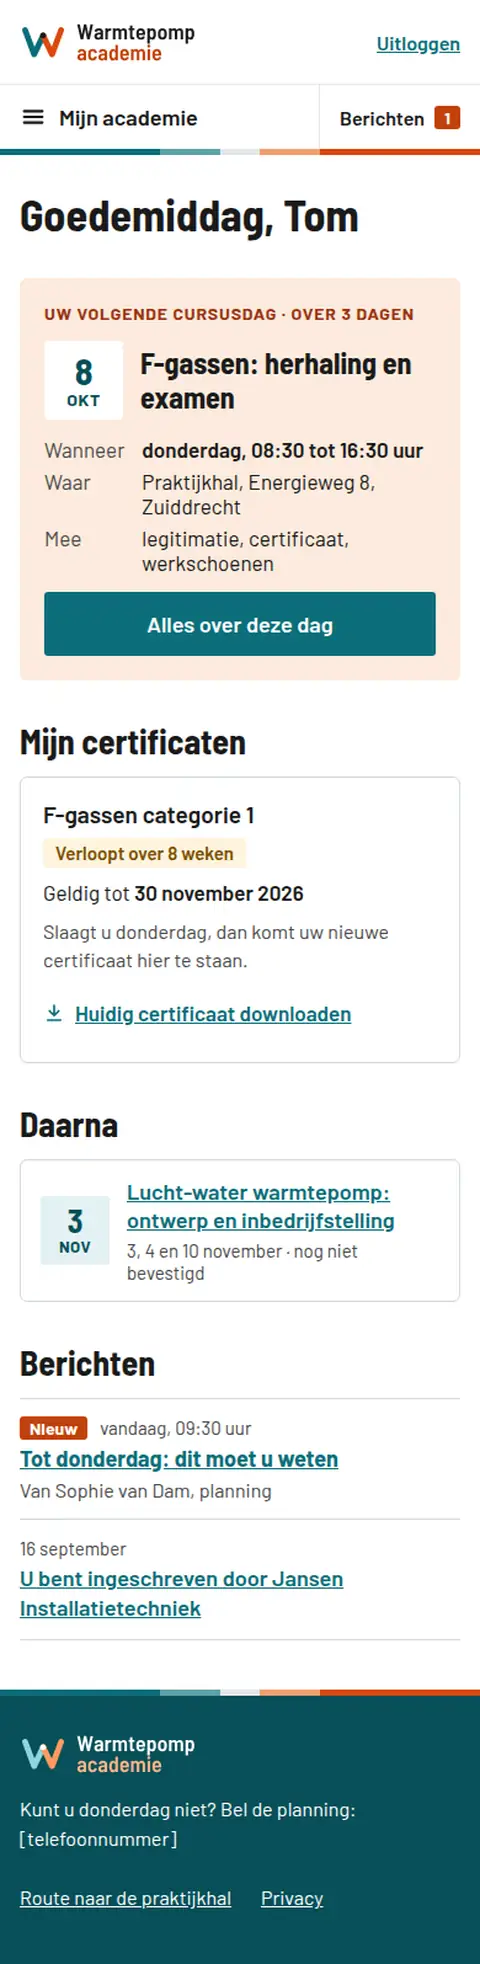
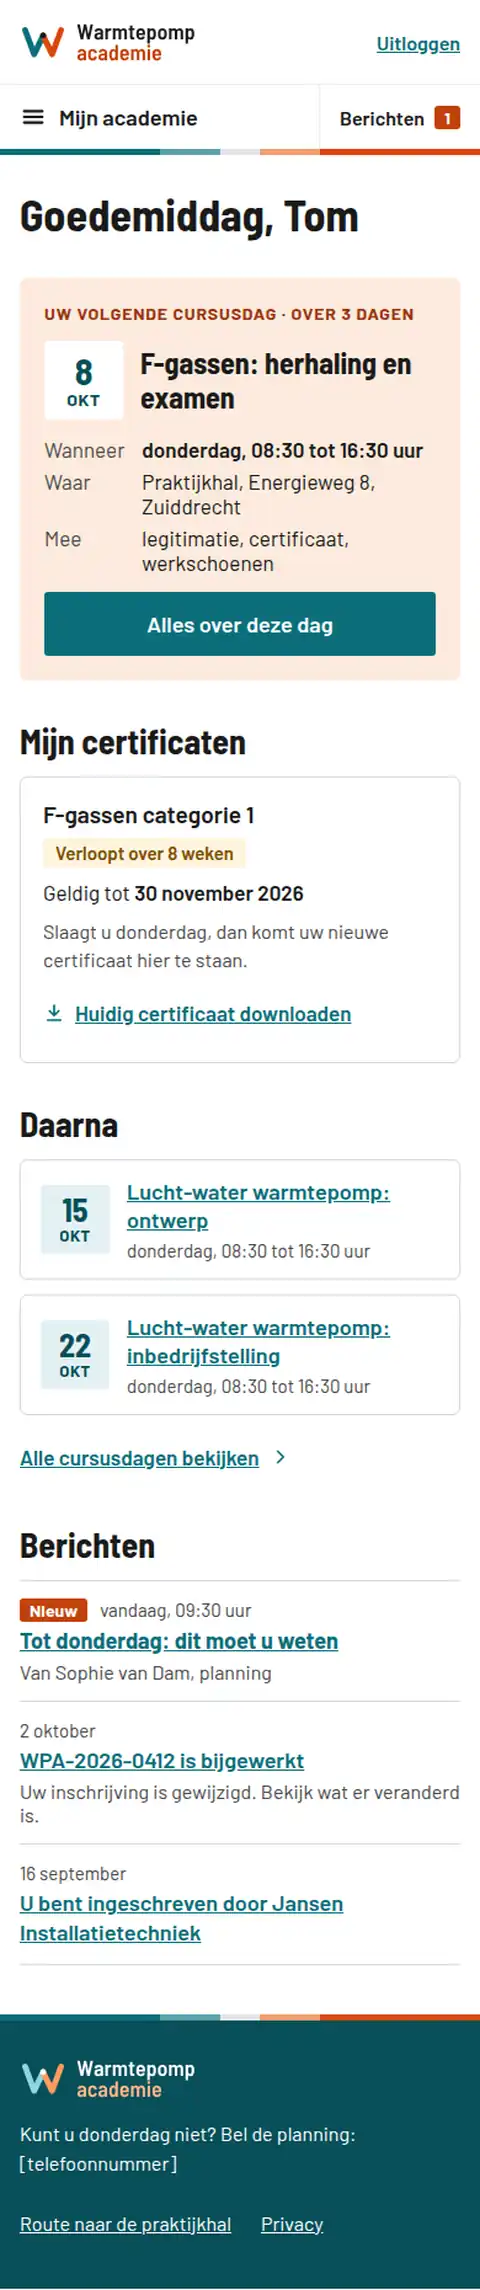
feat(warmtepompacademie): draw collection skip and a change notice on MobielHome
Daarna leaves out the course day the highlight already shows and lists the
next two, with a link to the rest (portaliq collection-skip). Berichten
carries a change notice whose subject is one language only (REQ-NAP-010).

Assisted-by: ClaudeCode:claude-opus-5-5

diff --git a/screens-src/warmtepompacademie/MobielHome.dc.html b/screens-src/warmtepompacademie/MobielHome.dc.html
@@ -62,15 +62,21 @@ a{color:#0b6e7a}a:hover{color:#084f58}
     <section aria-labelledby="mh-later" style="display: flex; flex-direction: column; gap: 12px">
       <h2 id="mh-later" style="margin: 0; font-family: 'Barlow Semi Condensed', 'Barlow', system-ui, sans-serif; font-size: 28px; font-weight: 700">Daarna</h2>
       <a href="#" style="display: flex; gap: 14px; align-items: center; padding: 14px 16px; border: 1px solid #d3d8df; border-radius: 6px; color: #1a1a1a; text-decoration: none">
-        <span style="flex: none; width: 56px; height: 56px; border-radius: 3px; background: #e3f1f3; color: #084f58; display: flex; flex-direction: column; align-items: center; justify-content: center; gap: 2px; line-height: 1"><strong style="font-family: 'Barlow Semi Condensed', 'Barlow', sans-serif; font-size: 26px; font-weight: 700">3</strong><span style="font-size: 13px; font-weight: 700; text-transform: uppercase; letter-spacing: 0.04em">nov</span></span>
-        <span style="display: flex; flex-direction: column; gap: 3px; min-width: 0"><span style="font-size: 18px; font-weight: 600; line-height: 1.3; color: #0b6e7a; text-decoration: underline">Lucht-water warmtepomp: ontwerp en inbedrijfstelling</span><span style="font-size: 15px; color: #4a4a4a">3, 4 en 10 november · nog niet bevestigd</span></span>
+        <span style="flex: none; width: 56px; height: 56px; border-radius: 3px; background: #e3f1f3; color: #084f58; display: flex; flex-direction: column; align-items: center; justify-content: center; gap: 2px; line-height: 1"><strong style="font-family: 'Barlow Semi Condensed', 'Barlow', sans-serif; font-size: 26px; font-weight: 700">15</strong><span style="font-size: 13px; font-weight: 700; text-transform: uppercase; letter-spacing: 0.04em">okt</span></span>
+        <span style="display: flex; flex-direction: column; gap: 3px; min-width: 0"><span style="font-size: 18px; font-weight: 600; line-height: 1.3; color: #0b6e7a; text-decoration: underline">Lucht-water warmtepomp: ontwerp</span><span style="font-size: 15px; color: #4a4a4a">donderdag, 08:30 tot 16:30 uur</span></span>
       </a>
+      <a href="#" style="display: flex; gap: 14px; align-items: center; padding: 14px 16px; border: 1px solid #d3d8df; border-radius: 6px; color: #1a1a1a; text-decoration: none">
+        <span style="flex: none; width: 56px; height: 56px; border-radius: 3px; background: #e3f1f3; color: #084f58; display: flex; flex-direction: column; align-items: center; justify-content: center; gap: 2px; line-height: 1"><strong style="font-family: 'Barlow Semi Condensed', 'Barlow', sans-serif; font-size: 26px; font-weight: 700">22</strong><span style="font-size: 13px; font-weight: 700; text-transform: uppercase; letter-spacing: 0.04em">okt</span></span>
+        <span style="display: flex; flex-direction: column; gap: 3px; min-width: 0"><span style="font-size: 18px; font-weight: 600; line-height: 1.3; color: #0b6e7a; text-decoration: underline">Lucht-water warmtepomp: inbedrijfstelling</span><span style="font-size: 15px; color: #4a4a4a">donderdag, 08:30 tot 16:30 uur</span></span>
+      </a>
+      <a href="#" style="display: inline-flex; align-items: center; gap: 8px; min-height: 44px; font-size: 17px; font-weight: 600">Alle cursusdagen bekijken<svg width="18" height="18" viewBox="0 0 24 24" fill="none" stroke="currentColor" stroke-width="2.2" stroke-linecap="round" stroke-linejoin="round" aria-hidden="true"><path d="M9 6l6 6-6 6"></path></svg></a>
     </section>
 
     <section aria-labelledby="mh-ber" style="display: flex; flex-direction: column; gap: 4px">
       <h2 id="mh-ber" style="margin: 0 0 8px; font-family: 'Barlow Semi Condensed', 'Barlow', system-ui, sans-serif; font-size: 28px; font-weight: 700">Berichten</h2>
       <ul style="margin: 0; padding: 0; list-style: none; border-top: 1px solid #d3d8df">
         <li style="border-bottom: 1px solid #d3d8df"><a href="Berichten.dc.html" style="display: flex; flex-direction: column; gap: 4px; padding: 14px 0; text-decoration: none; color: #1a1a1a"><span style="display: flex; gap: 10px; align-items: center"><span style="padding: 1px 8px; border-radius: 3px; background: #c2410c; color: #ffffff; font-size: 14px; font-weight: 700">Nieuw</span><span style="font-size: 15px; color: #4a4a4a">vandaag, 09:30 uur</span></span><span style="font-size: 18px; font-weight: 700; line-height: 1.3; color: #0b6e7a; text-decoration: underline">Tot donderdag: dit moet u weten</span><span style="font-size: 16px; color: #4a4a4a">Van Sophie van Dam, planning</span></a></li>
+        <li style="border-bottom: 1px solid #d3d8df"><a href="Berichten.dc.html" style="display: flex; flex-direction: column; gap: 4px; padding: 14px 0; text-decoration: none; color: #1a1a1a"><span style="font-size: 15px; color: #4a4a4a">2 oktober</span><span style="font-size: 18px; font-weight: 600; line-height: 1.3; color: #0b6e7a; text-decoration: underline">WPA-2026-0412 is bijgewerkt</span><span style="font-size: 16px; color: #4a4a4a">Uw inschrijving is gewijzigd. Bekijk wat er veranderd is.</span></a></li>
         <li style="border-bottom: 1px solid #d3d8df"><a href="Berichten.dc.html" style="display: flex; flex-direction: column; gap: 4px; padding: 14px 0; text-decoration: none; color: #1a1a1a"><span style="font-size: 15px; color: #4a4a4a">16 september</span><span style="font-size: 18px; font-weight: 600; line-height: 1.3; color: #0b6e7a; text-decoration: underline">U bent ingeschreven door Jansen Installatietechniek</span></a></li>
       </ul>
     </section>
@@ -86,7 +92,7 @@ a{color:#0b6e7a}a:hover{color:#084f58}
   </footer>
 </div>
 </x-dc>
-<script type="text/x-dc" data-dc-script data-props='{"$preview":{"width":390,"height":1596}}'>
+<script type="text/x-dc" data-dc-script data-props='{"$preview":{"width":390,"height":1861}}'>
 class Component extends DCLogic {
   renderVals() {
     return {};

diff --git a/preview/screens/boards/warmtepompacademie-MobielHome.html b/preview/screens/boards/warmtepompacademie-MobielHome.html
@@ -62,15 +62,21 @@ a{color:#0b6e7a}a:hover{color:#084f58}
     <section aria-labelledby="mh-later" style="display: flex; flex-direction: column; gap: 12px">
       <h2 id="mh-later" style="margin: 0; font-family: 'Barlow Semi Condensed', 'Barlow', system-ui, sans-serif; font-size: 28px; font-weight: 700">Daarna</h2>
       <a href="#" style="display: flex; gap: 14px; align-items: center; padding: 14px 16px; border: 1px solid #d3d8df; border-radius: 6px; color: #1a1a1a; text-decoration: none">
-        <span style="flex: none; width: 56px; height: 56px; border-radius: 3px; background: #e3f1f3; color: #084f58; display: flex; flex-direction: column; align-items: center; justify-content: center; gap: 2px; line-height: 1"><strong style="font-family: 'Barlow Semi Condensed', 'Barlow', sans-serif; font-size: 26px; font-weight: 700">3</strong><span style="font-size: 13px; font-weight: 700; text-transform: uppercase; letter-spacing: 0.04em">nov</span></span>
-        <span style="display: flex; flex-direction: column; gap: 3px; min-width: 0"><span style="font-size: 18px; font-weight: 600; line-height: 1.3; color: #0b6e7a; text-decoration: underline">Lucht-water warmtepomp: ontwerp en inbedrijfstelling</span><span style="font-size: 15px; color: #4a4a4a">3, 4 en 10 november · nog niet bevestigd</span></span>
+        <span style="flex: none; width: 56px; height: 56px; border-radius: 3px; background: #e3f1f3; color: #084f58; display: flex; flex-direction: column; align-items: center; justify-content: center; gap: 2px; line-height: 1"><strong style="font-family: 'Barlow Semi Condensed', 'Barlow', sans-serif; font-size: 26px; font-weight: 700">15</strong><span style="font-size: 13px; font-weight: 700; text-transform: uppercase; letter-spacing: 0.04em">okt</span></span>
+        <span style="display: flex; flex-direction: column; gap: 3px; min-width: 0"><span style="font-size: 18px; font-weight: 600; line-height: 1.3; color: #0b6e7a; text-decoration: underline">Lucht-water warmtepomp: ontwerp</span><span style="font-size: 15px; color: #4a4a4a">donderdag, 08:30 tot 16:30 uur</span></span>
       </a>
+      <a href="#" style="display: flex; gap: 14px; align-items: center; padding: 14px 16px; border: 1px solid #d3d8df; border-radius: 6px; color: #1a1a1a; text-decoration: none">
+        <span style="flex: none; width: 56px; height: 56px; border-radius: 3px; background: #e3f1f3; color: #084f58; display: flex; flex-direction: column; align-items: center; justify-content: center; gap: 2px; line-height: 1"><strong style="font-family: 'Barlow Semi Condensed', 'Barlow', sans-serif; font-size: 26px; font-weight: 700">22</strong><span style="font-size: 13px; font-weight: 700; text-transform: uppercase; letter-spacing: 0.04em">okt</span></span>
+        <span style="display: flex; flex-direction: column; gap: 3px; min-width: 0"><span style="font-size: 18px; font-weight: 600; line-height: 1.3; color: #0b6e7a; text-decoration: underline">Lucht-water warmtepomp: inbedrijfstelling</span><span style="font-size: 15px; color: #4a4a4a">donderdag, 08:30 tot 16:30 uur</span></span>
+      </a>
+      <a href="#" style="display: inline-flex; align-items: center; gap: 8px; min-height: 44px; font-size: 17px; font-weight: 600">Alle cursusdagen bekijken<svg width="18" height="18" viewbox="0 0 24 24" fill="none" stroke="currentColor" stroke-width="2.2" stroke-linecap="round" stroke-linejoin="round" aria-hidden="true"><path d="M9 6l6 6-6 6"></path></svg></a>
     </section>
 
     <section aria-labelledby="mh-ber" style="display: flex; flex-direction: column; gap: 4px">
       <h2 id="mh-ber" style="margin: 0 0 8px; font-family: 'Barlow Semi Condensed', 'Barlow', system-ui, sans-serif; font-size: 28px; font-weight: 700">Berichten</h2>
       <ul style="margin: 0; padding: 0; list-style: none; border-top: 1px solid #d3d8df">
         <li style="border-bottom: 1px solid #d3d8df"><a href="warmtepompacademie-Berichten.html" style="display: flex; flex-direction: column; gap: 4px; padding: 14px 0; text-decoration: none; color: #1a1a1a"><span style="display: flex; gap: 10px; align-items: center"><span style="padding: 1px 8px; border-radius: 3px; background: #c2410c; color: #ffffff; font-size: 14px; font-weight: 700">Nieuw</span><span style="font-size: 15px; color: #4a4a4a">vandaag, 09:30 uur</span></span><span style="font-size: 18px; font-weight: 700; line-height: 1.3; color: #0b6e7a; text-decoration: underline">Tot donderdag: dit moet u weten</span><span style="font-size: 16px; color: #4a4a4a">Van Sophie van Dam, planning</span></a></li>
+        <li style="border-bottom: 1px solid #d3d8df"><a href="warmtepompacademie-Berichten.html" style="display: flex; flex-direction: column; gap: 4px; padding: 14px 0; text-decoration: none; color: #1a1a1a"><span style="font-size: 15px; color: #4a4a4a">2 oktober</span><span style="font-size: 18px; font-weight: 600; line-height: 1.3; color: #0b6e7a; text-decoration: underline">WPA-2026-0412 is bijgewerkt</span><span style="font-size: 16px; color: #4a4a4a">Uw inschrijving is gewijzigd. Bekijk wat er veranderd is.</span></a></li>
         <li style="border-bottom: 1px solid #d3d8df"><a href="warmtepompacademie-Berichten.html" style="display: flex; flex-direction: column; gap: 4px; padding: 14px 0; text-decoration: none; color: #1a1a1a"><span style="font-size: 15px; color: #4a4a4a">16 september</span><span style="font-size: 18px; font-weight: 600; line-height: 1.3; color: #0b6e7a; text-decoration: underline">U bent ingeschreven door Jansen Installatietechniek</span></a></li>
       </ul>
     </section>
